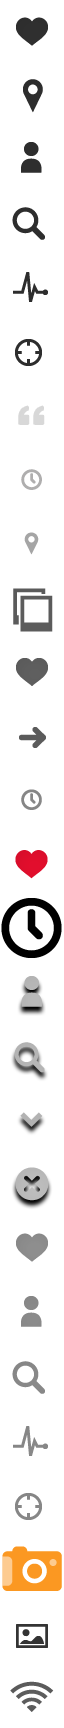
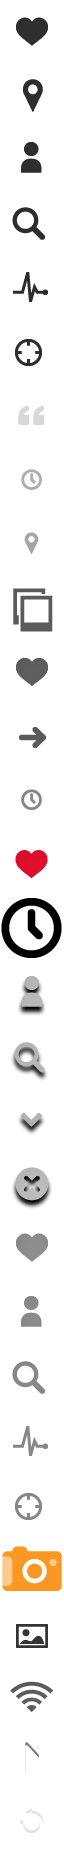
Add element for pausing / unpausing the queue

Changed region(s): [[0.0, 0.0, 0.9688, 1.0]]

diff --git a/theme/snapr/css/main.css b/theme/snapr/css/main.css
@@ -542,9 +542,13 @@
 .extra-icons.ui-icon-delete {
   background-position: 0 -576px;
 }
-.extra-icons .ui-icon-connection,
-.extra-icons.ui-icon-connection {
-  background-position: 0 -832px;
+.extra-icons .ui-icon-play,
+.extra-icons.ui-icon-play {
+  background-position: 0 -864px;
+}
+.extra-icons .ui-icon-refresh,
+.extra-icons.ui-icon-refresh {
+  background-position: 0 -896px;
 }
 .ui-icon.helper-icons,
 .helper-icons .ui-icon {
@@ -1973,6 +1977,10 @@ a.ui-link-inherit {
   padding: 16px;
   color: #999999;
 }
+.ui-body-c .ui-content {
+  /* System bar */
+
+}
 .ui-body-c .ui-content .ui-btn-up-c,
 .ui-body-c .ui-content .ui-btn-hover-c,
 .ui-body-c .ui-content .ui-btn-down-c,
@@ -1986,6 +1994,76 @@ a.ui-link-inherit {
   -moz-box-shadow: none;
   -webkit-box-shadow: none;
   box-shadow: none;
+}
+.ui-body-c .ui-content .ui-btn-up-c.system-bar,
+.ui-body-c .ui-content .ui-btn-hover-c.system-bar,
+.ui-body-c .ui-content .ui-btn-down-c.system-bar,
+.ui-body-c .ui-content .ui-btn-active-c.system-bar {
+  -moz-border-radius: 20px;
+  -webkit-border-radius: 20px;
+  border-radius: 20px;
+  display: block;
+  position: relative;
+  border: none;
+  color: white;
+  text-shadow: rgba(0, 0, 0, 0.5) 0px -1px 0px;
+}
+.ui-body-c .ui-content .ui-btn-up-c.system-bar {
+  background-color: #4185f4;
+  background-image: -webkit-gradient(linear, left top, left bottom, from(#4185f4), to(#194fdc));
+  /* Saf4+, Chrome */
+
+  background-image: -webkit-linear-gradient(top, #4185f4, #194fdc);
+  /* Chrome 10+, Saf5.1+ */
+
+  background-image: -moz-linear-gradient(top, #4185f4, #194fdc);
+  /* FF3.6 */
+
+  background-image: -ms-linear-gradient(top, #4185f4, #194fdc);
+  /* IE10 */
+
+  background-image: -o-linear-gradient(top, #4185f4, #194fdc);
+  /* Opera 11.10+ */
+
+  background-image: linear-gradient(top, #4185f4, #194fdc);
+}
+.ui-body-c .ui-content .ui-btn-hover-c.system-bar {
+  background-color: #71a4f7;
+  background-image: -webkit-gradient(linear, left top, left bottom, from(#1166f1), to(#143fae));
+  /* Saf4+, Chrome */
+
+  background-image: -webkit-linear-gradient(top, #1166f1, #143fae);
+  /* Chrome 10+, Saf5.1+ */
+
+  background-image: -moz-linear-gradient(top, #1166f1, #143fae);
+  /* FF3.6 */
+
+  background-image: -ms-linear-gradient(top, #1166f1, #143fae);
+  /* IE10 */
+
+  background-image: -o-linear-gradient(top, #1166f1, #143fae);
+  /* Opera 11.10+ */
+
+  background-image: linear-gradient(top, #1166f1, #143fae);
+}
+.ui-body-c .ui-content .ui-btn-down-c.system-bar {
+  background-color: #1f56e6;
+  background-image: -webkit-gradient(linear, left bottom, left top, color-stop(0, #194fdc), color-stop(0.7, #194fdc), color-stop(1, #1647c5));
+  /* Saf4+, Chrome */
+
+  background-image: -webkit-linear-gradient(bottom, #194fdc 0%, #194fdc 70%, #174ace 100%);
+  /* Chrome 10+, Saf5.1+ */
+
+  background-image: -moz-linear-gradient(bottom, #194fdc 0%, #194fdc 70%, #174ace 100%);
+  /* FF3.6 */
+
+  background-image: -ms-linear-gradient(bottom, #194fdc 0%, #194fdc 70%, #174ace 100%);
+  /* IE10 */
+
+  background-image: -o-linear-gradient(bottom, #194fdc 0%, #194fdc 70%, #174ace 100%);
+  /* Opera 11.10+ */
+
+  background-image: linear-gradient(bottom, #194fdc 0%, #194fdc 70%, #174ace 100%);
 }
 .ui-body-c .ui-btn {
   text-shadow: 0 1px 1px rgba(200, 200, 200, 0.3);
@@ -3183,6 +3261,48 @@ a.ui-link-inherit {
   position: absolute!important;
   right: 0!important;
   left: auto!important;
+}
+.system-bar {
+  display: block;
+  position: relative;
+  -moz-border-radius: 20px;
+  -webkit-border-radius: 20px;
+  border-radius: 20px;
+  color: white;
+  text-shadow: rgba(0, 0, 0, 0.5) 0px -1px 0px;
+  background-color: #4185f4;
+  background-image: -webkit-gradient(linear, left top, left bottom, from(#4185f4), to(#194fdc));
+  /* Saf4+, Chrome */
+
+  background-image: -webkit-linear-gradient(top, #4185f4, #194fdc);
+  /* Chrome 10+, Saf5.1+ */
+
+  background-image: -moz-linear-gradient(top, #4185f4, #194fdc);
+  /* FF3.6 */
+
+  background-image: -ms-linear-gradient(top, #4185f4, #194fdc);
+  /* IE10 */
+
+  background-image: -o-linear-gradient(top, #4185f4, #194fdc);
+  /* Opera 11.10+ */
+
+  background-image: linear-gradient(top, #4185f4, #194fdc);
+}
+.system-bar strong {
+  font-size: 16px;
+  font-family: Helvetica, Arial, sans-serif;
+  font-weight: bold;
+  font-style: normal;
+  text-transform: lowercase;
+}
+.system-bar .ui-icon-play {
+  position: absolute;
+  left: -29px !important;
+  margin-top: -16px !important;
+}
+.system-bar .ui-btn-inner {
+  padding: 7px 32px;
+  text-align: left;
 }
 /* Bar style tabbed nav like at the top of the popular page */
 .ui-navbar {
@@ -6755,10 +6875,10 @@ body.browser-testing .ps-caption-bottom {
   .extra-icons .ui-icon,
   .x-offline .extra-icons .ui-btn-inner .ui-icon {
     background-image: url('../gfx/retina/extra-icons.png');
-    -moz-background-size: 32px 864px;
-    -o-background-size: 32px 864px;
-    -webkit-background-size: 32px 864px;
-    background-size: 32px 864px;
+    -moz-background-size: 32px 928px;
+    -o-background-size: 32px 928px;
+    -webkit-background-size: 32px 928px;
+    background-size: 32px 928px;
   }
   .action-icons .ui-btn-inner .ui-icon,
   .ui-checkbox .ui-btn-inner .ui-icon,
@@ -6877,10 +6997,10 @@ body.browser-testing .ps-caption-bottom {
   }
   .loading .map-filters .ui-input-search .ui-input-clear .ui-icon-delete {
     background-image: url('../gfx/retina/extra-icons.png') !important;
-    -moz-background-size: 32px 864px !important;
-    -o-background-size: 32px 864px !important;
-    -webkit-background-size: 32px 864px !important;
-    background-size: 32px 864px !important;
+    -moz-background-size: 32px 928px !important;
+    -o-background-size: 32px 928px !important;
+    -webkit-background-size: 32px 928px !important;
+    background-size: 32px 928px !important;
   }
   .ps-toolbar .ps-toolbar-close .ps-toolbar-content {
     background-image: url('../gfx/retina/general-jquerymob-icons.png');

diff --git a/theme/snapr/css/jquerymobile.swatches.less b/theme/snapr/css/jquerymobile.swatches.less
@@ -389,6 +389,32 @@
                  .box-shadow(none);
                  }
            }
+           
+           /* System bar */
+           .ui-btn-up-c.system-bar,
+           .ui-btn-hover-c.system-bar,
+           .ui-btn-down-c.system-bar,
+           .ui-btn-active-c.system-bar   {
+                    .corner-all(@corner-fully-rounded);
+                    display: block;
+                    position: relative;
+                    border: none;
+                    color: white;
+                    text-shadow: @color-shadow-medium-on-dark 0px -1px 0px;
+                    
+            }
+            .ui-btn-up-c.system-bar{
+                background-color: @color-bg-system-main;
+                .linear-gradient(@color-bg-system-main, @color-bg-system-main-tint);
+            }
+            .ui-btn-hover-c.system-bar{
+                background-color: lighten(@color-bg-system-main, 10%);
+                .linear-gradient(darken(@color-bg-system-main, 10%), darken(@color-bg-system-main-tint, 10%));
+            }
+            .ui-btn-down-c.system-bar{
+                background-color: lighten(@color-bg-system-main-tint, 3%);
+                .pressed-gradient(@color-bg-system-main-tint, 3%);
+            }
       }
       .ui-btn{
           text-shadow: 0 1px 1px @color-shadow-medium-on-light;

diff --git a/index.html b/index.html
@@ -220,11 +220,16 @@
 
     <div class="myaccount-header page-inset-header ui-body-c">
         <div class="ui-content">
+        
+        
+        
          <a class="username" href="#/feed/?username=<%= username %>">
                 <div class="user-icon-small" style="background-image: url('<%= config.get('avatar_url') %>/<%= user_id %>?size=large&_salt=<%= settings.profile.avatar_type %>');"></div>
                 <%= display_username %>
             </a>
                 <a href="#/logout/" class="logout-button" data-role="button" data-icon="delete" data-iconpos="right">Logout</a>
+                
+               
         </div>
 
     </div>
@@ -2441,6 +2446,15 @@
         </div>
 
     </div>
+    
+     <!-- MARKUP for resume queue btn
+     
+     <a class="x-resume-queue system-bar resume-upload-queue extra-icons" data-role="button" data-iconpos="right" data-icon="refresh">
+                    <span class="ui-icon ui-icon-play"></span>
+                    <strong>Queue Paused</strong>
+                    <span class="small-text">Resume?</span>
+    </a> 
+    -->
 
     <!-- @upload @uploadprogress ITEM - template for upload progress header -->
     <script id="upload-progress-li-template" type="text/template">

diff --git a/theme/snapr/css/sprites.less b/theme/snapr/css/sprites.less
@@ -169,7 +169,7 @@
 * Extra Icons '../gfx/extra-icons.png'
 */
 @gfx-extra-icon-sprite-width: 32px;
-@gfx-extra-icon-sprite-height: 864px;
+@gfx-extra-icon-sprite-height: 928px;
 @gfx-extra-icon-sprite-grid: 32px;
 /* Vertical Layout of Icons */
 @gfx-extra-icon-sprite-heart-y:         -0 * @gfx-extra-icon-sprite-grid; 
@@ -199,7 +199,8 @@
 @gfx-extra-icon-sprite-mapcamera-y:     -24 * @gfx-extra-icon-sprite-grid;
 @gfx-extra-icon-sprite-photoedit-y:     -25 * @gfx-extra-icon-sprite-grid;
 @gfx-extra-icon-sprite-connection-y:    -26 * @gfx-extra-icon-sprite-grid;
-
+@gfx-extra-icon-sprite-play-y:          -27 * @gfx-extra-icon-sprite-grid;
+@gfx-extra-icon-sprite-refresh-y:       -28 * @gfx-extra-icon-sprite-grid;
 
 /* Horizontal offsets for theme swatches / hover states */
 @ei-offset-x: 0;

diff --git a/theme/snapr/css/elements.less b/theme/snapr/css/elements.less
@@ -149,6 +149,30 @@
     left: auto!important;
 }
 
+.system-bar{
+    display: block;
+    position: relative;
+    .corner-all(@corner-fully-rounded);
+    color: white;
+    text-shadow: @color-shadow-medium-on-dark 0px -1px 0px;
+    background-color: @color-bg-system-main;
+    .linear-gradient(@color-bg-system-main, @color-bg-system-main-tint);
+    
+    strong{
+        font-size: @txt-size-bar-heading;
+        .ui-bar-font();
+    }
+    .ui-icon-play{
+        position: absolute;
+        left: -29px!important;
+        margin-top: -16px!important;
+    }
+    .ui-btn-inner{
+        padding: 7px 32px;
+        text-align: left;
+    }
+}
+
 /* Bar style tabbed nav like at the top of the popular page */
 .ui-navbar{
     margin: 0 -@padding-page-inset;

diff --git a/theme/snapr/css/icons.less b/theme/snapr/css/icons.less
@@ -183,8 +183,8 @@
     .ui-icon-mapcamera-y, &.ui-icon-mapcamera{background-position: @ei-offset-x @gfx-extra-icon-sprite-mapcamera-y;}
     .ui-icon-photoedit, &.ui-icon-photoedit{background-position: @ei-offset-x @gfx-extra-icon-sprite-photoedit-y;}
     .ui-icon-delete, &.ui-icon-delete{background-position: @ei-offset-x @gfx-extra-icon-sprite-delete-a-y;}
-    .ui-icon-connection, &.ui-icon-connection{background-position: @ei-offset-x @gfx-extra-icon-sprite-connection-y;}
-    
+    .ui-icon-play, &.ui-icon-play{background-position: @ei-offset-x @gfx-extra-icon-sprite-play-y;}
+    .ui-icon-refresh, &.ui-icon-refresh{background-position: @ei-offset-x @gfx-extra-icon-sprite-refresh-y;}
 }
 
 
